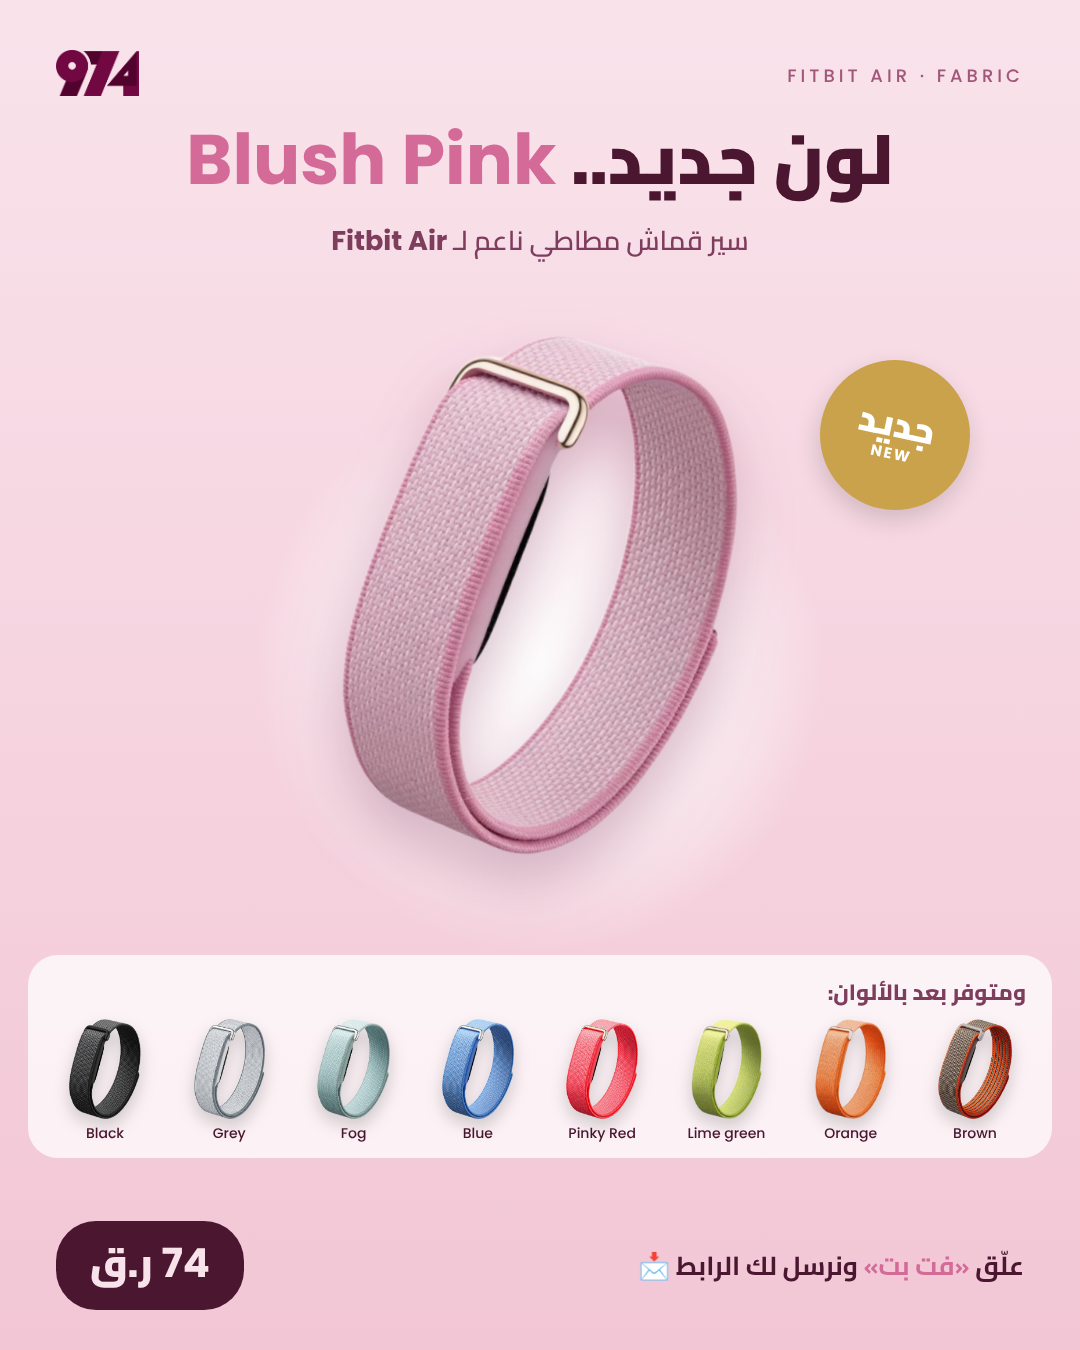
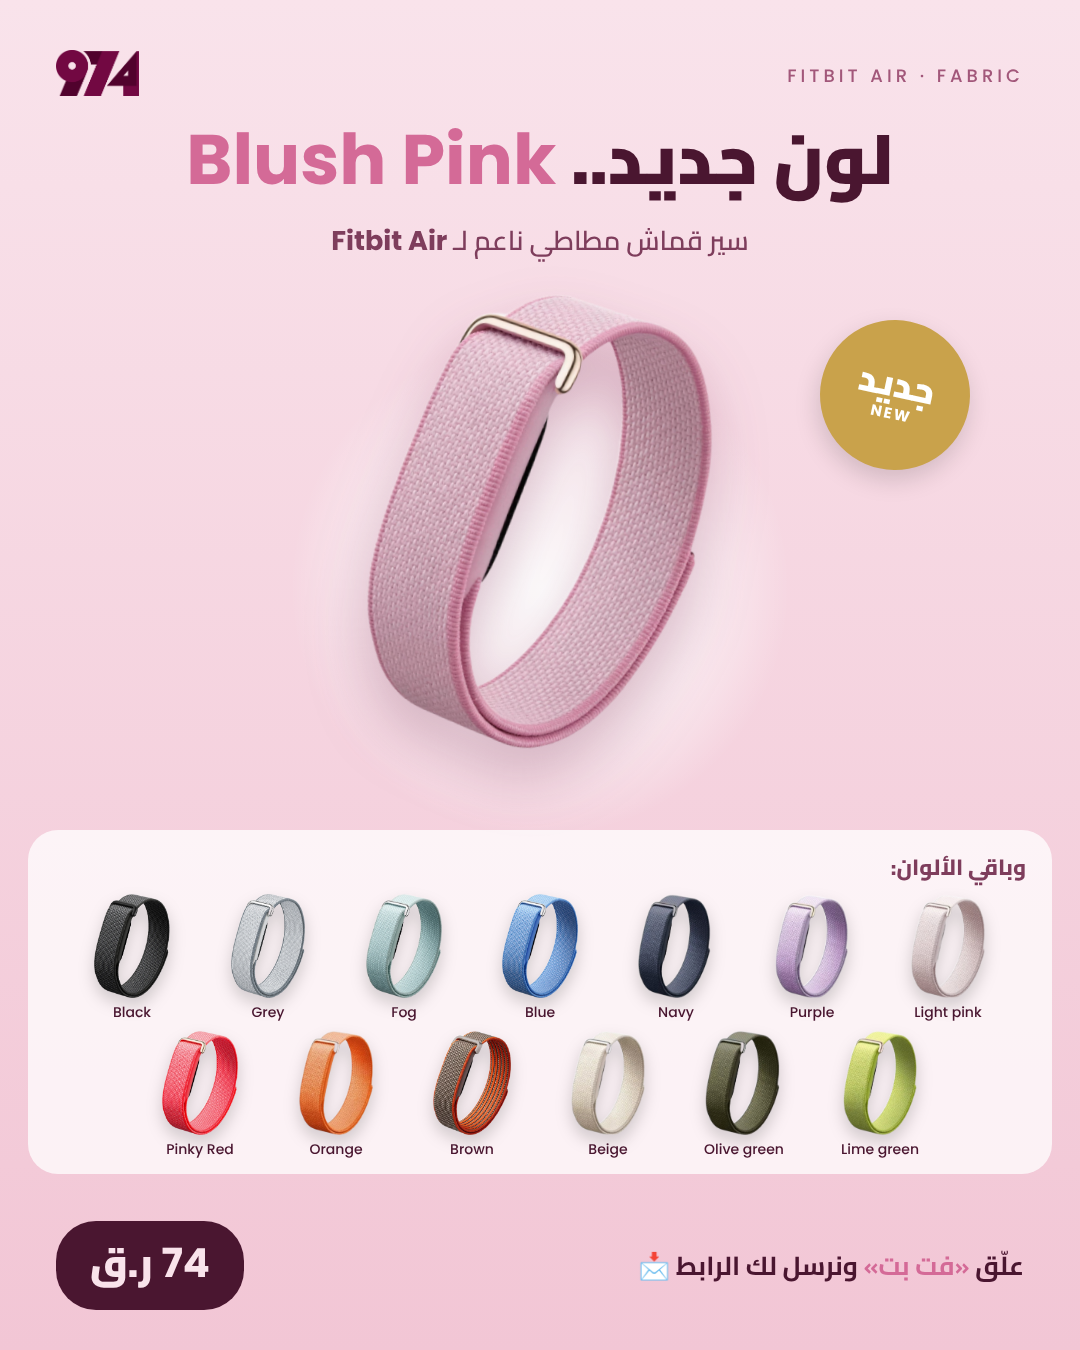
Fitbit fabric blush design: all 14 colours
Claude-Session: https://claude.ai/code/session_01K6HDWNrArsGSJekW1VcEzV

Changed region(s): [[0.0, 0.2178, 0.9778, 0.8711], [0.7333, 0.2178, 0.9167, 0.4044]]

diff --git a/posts/2026-11/fitbit-fabric-blush/974-fitbit-fabric-blush-post.html b/posts/2026-11/fitbit-fabric-blush/974-fitbit-fabric-blush-post.html
@@ -11,15 +11,15 @@ h1{position:absolute;top:120px;left:0;right:0;text-align:center;direction:rtl;fo
 h1 b{font-family:Poppins;font-weight:700;color:#D46A97}
 .sub{position:absolute;top:215px;left:0;right:0;text-align:center;direction:rtl;font-weight:600;font-size:27px;color:#7E3D5C}
 .sub b{font-family:Poppins;font-weight:700}
-.disc{position:absolute;left:50%;top:381.2px;width:576.0px;height:576.0px;transform:translateX(-50%);border-radius:50%;background:radial-gradient(circle,#FFFFFF 0%,rgba(255,255,255,.55) 45%,rgba(255,255,255,0) 70%)}
-.hero{position:absolute;left:50%;top:330px;height:524.8px;transform:translateX(-50%) rotate(6deg);filter:drop-shadow(0 30px 28px rgba(110,30,70,.28))}
-.new{position:absolute;top:360px;right:110px;width:150px;height:150px;border-radius:50%;background:#C9A24B;color:#fff;display:flex;flex-direction:column;align-items:center;justify-content:center;transform:rotate(12deg);box-shadow:0 10px 24px rgba(0,0,0,.15)}
+.disc{position:absolute;left:50%;top:334.8px;width:504.0px;height:504.0px;transform:translateX(-50%);border-radius:50%;background:radial-gradient(circle,#FFFFFF 0%,rgba(255,255,255,.55) 45%,rgba(255,255,255,0) 70%)}
+.hero{position:absolute;left:50%;top:290px;height:459.2px;transform:translateX(-50%) rotate(6deg);filter:drop-shadow(0 30px 28px rgba(110,30,70,.28))}
+.new{position:absolute;top:320px;right:110px;width:150px;height:150px;border-radius:50%;background:#C9A24B;color:#fff;display:flex;flex-direction:column;align-items:center;justify-content:center;transform:rotate(12deg);box-shadow:0 10px 24px rgba(0,0,0,.15)}
 .new b{font-weight:900;font-size:36px;line-height:1} .new s{text-decoration:none;font-family:Poppins;font-weight:700;font-size:15px;letter-spacing:2px}
-.strip{position:absolute;left:28px;right:28px;top:955px;background:rgba(255,255,255,.75);border-radius:30px;padding:16px 18px 14px}
+.strip{position:absolute;left:28px;right:28px;top:830px;background:rgba(255,255,255,.75);border-radius:30px;padding:16px 18px 14px}
 .strip h3{direction:rtl;text-align:right;font-weight:800;font-size:22px;margin:0 8px 6px;color:#7E3D5C}
-.row{display:flex;justify-content:space-between}
-.o{display:flex;flex-direction:column;align-items:center;width:118px}
-.o img{height:100px;max-width:110px;object-fit:contain;filter:drop-shadow(0 8px 8px rgba(0,0,0,.18))}
+.row{display:flex;flex-wrap:wrap;justify-content:center;row-gap:8px;column-gap:14px}
+.o{display:flex;flex-direction:column;align-items:center;width:122px}
+.o img{height:104px;max-width:114px;object-fit:contain;filter:drop-shadow(0 8px 8px rgba(0,0,0,.18))}
 .o span{font-family:Poppins;font-weight:500;font-size:14px;margin-top:4px;white-space:nowrap}
 .foot{position:absolute;left:56px;right:56px;bottom:40px;display:flex;justify-content:space-between;align-items:center;direction:rtl}
 .price{background:#4A1630;color:#F9E3EB;border-radius:40px;padding:4px 34px 10px;font-weight:900;font-size:40px}
@@ -33,6 +33,6 @@ h1 b{font-family:Poppins;font-weight:700;color:#D46A97}
 <div class="disc"></div>
 <img class="hero" src="file:///home/claude/974-social/products/fitbit-fabric-blush/src/blush-crop.png">
 <div class="new"><b>جديد</b><s>NEW</s></div>
-<div class="strip"><h3>ومتوفر بعد بالألوان:</h3><div class="row"><div class="o"><img src="file:///home/claude/974-social/products/fitbit-fabric-blush/src/black-crop.png"><span>Black</span></div><div class="o"><img src="file:///home/claude/974-social/products/fitbit-fabric-blush/src/grey-crop.png"><span>Grey</span></div><div class="o"><img src="file:///home/claude/974-social/products/fitbit-fabric-blush/src/fog-crop.png"><span>Fog</span></div><div class="o"><img src="file:///home/claude/974-social/products/fitbit-fabric-blush/src/blue-crop.png"><span>Blue</span></div><div class="o"><img src="file:///home/claude/974-social/products/fitbit-fabric-blush/src/pinky-red-crop.png"><span>Pinky Red</span></div><div class="o"><img src="file:///home/claude/974-social/products/fitbit-fabric-blush/src/lime-crop.png"><span>Lime green</span></div><div class="o"><img src="file:///home/claude/974-social/products/fitbit-fabric-blush/src/orange-crop.png"><span>Orange</span></div><div class="o"><img src="file:///home/claude/974-social/products/fitbit-fabric-blush/src/brown-crop.png"><span>Brown</span></div></div></div>
+<div class="strip"><h3>وباقي الألوان:</h3><div class="row"><div class="o"><img src="file:///home/claude/974-social/products/fitbit-fabric-blush/src/black-crop.png"><span>Black</span></div><div class="o"><img src="file:///home/claude/974-social/products/fitbit-fabric-blush/src/grey-crop.png"><span>Grey</span></div><div class="o"><img src="file:///home/claude/974-social/products/fitbit-fabric-blush/src/fog-crop.png"><span>Fog</span></div><div class="o"><img src="file:///home/claude/974-social/products/fitbit-fabric-blush/src/blue-crop.png"><span>Blue</span></div><div class="o"><img src="file:///home/claude/974-social/products/fitbit-fabric-blush/src/navy-crop.png"><span>Navy</span></div><div class="o"><img src="file:///home/claude/974-social/products/fitbit-fabric-blush/src/purple-crop.png"><span>Purple</span></div><div class="o"><img src="file:///home/claude/974-social/products/fitbit-fabric-blush/src/light-pink-crop.png"><span>Light pink</span></div><div class="o"><img src="file:///home/claude/974-social/products/fitbit-fabric-blush/src/pinky-red-crop.png"><span>Pinky Red</span></div><div class="o"><img src="file:///home/claude/974-social/products/fitbit-fabric-blush/src/orange-crop.png"><span>Orange</span></div><div class="o"><img src="file:///home/claude/974-social/products/fitbit-fabric-blush/src/brown-crop.png"><span>Brown</span></div><div class="o"><img src="file:///home/claude/974-social/products/fitbit-fabric-blush/src/beige-crop.png"><span>Beige</span></div><div class="o"><img src="file:///home/claude/974-social/products/fitbit-fabric-blush/src/olive-crop.png"><span>Olive green</span></div><div class="o"><img src="file:///home/claude/974-social/products/fitbit-fabric-blush/src/lime-crop.png"><span>Lime green</span></div></div></div>
 <div class="foot"><div class="cta">علّق <em>«فت بت»</em> ونرسل لك الرابط 📩</div><div class="price"><b>74</b> ر.ق</div></div>
 </body></html>

diff --git a/posts/2026-11/fitbit-fabric-blush/974-fitbit-fabric-blush-story.html b/posts/2026-11/fitbit-fabric-blush/974-fitbit-fabric-blush-story.html
@@ -11,13 +11,13 @@ h1{position:absolute;top:230px;left:0;right:0;text-align:center;direction:rtl;fo
 h1 b{font-family:Poppins;font-weight:700;color:#D46A97}
 .sub{position:absolute;top:340px;left:0;right:0;text-align:center;direction:rtl;font-weight:600;font-size:31px;color:#7E3D5C}
 .sub b{font-family:Poppins;font-weight:700}
-.disc{position:absolute;left:50%;top:585.6px;width:738.0px;height:738.0px;transform:translateX(-50%);border-radius:50%;background:radial-gradient(circle,#FFFFFF 0%,rgba(255,255,255,.55) 45%,rgba(255,255,255,0) 70%)}
-.hero{position:absolute;left:50%;top:520px;height:672.4px;transform:translateX(-50%) rotate(6deg);filter:drop-shadow(0 30px 28px rgba(110,30,70,.28))}
-.new{position:absolute;top:550px;right:90px;width:150px;height:150px;border-radius:50%;background:#C9A24B;color:#fff;display:flex;flex-direction:column;align-items:center;justify-content:center;transform:rotate(12deg);box-shadow:0 10px 24px rgba(0,0,0,.15)}
+.disc{position:absolute;left:50%;top:529.2px;width:666.0px;height:666.0px;transform:translateX(-50%);border-radius:50%;background:radial-gradient(circle,#FFFFFF 0%,rgba(255,255,255,.55) 45%,rgba(255,255,255,0) 70%)}
+.hero{position:absolute;left:50%;top:470px;height:606.8px;transform:translateX(-50%) rotate(6deg);filter:drop-shadow(0 30px 28px rgba(110,30,70,.28))}
+.new{position:absolute;top:500px;right:90px;width:150px;height:150px;border-radius:50%;background:#C9A24B;color:#fff;display:flex;flex-direction:column;align-items:center;justify-content:center;transform:rotate(12deg);box-shadow:0 10px 24px rgba(0,0,0,.15)}
 .new b{font-weight:900;font-size:36px;line-height:1} .new s{text-decoration:none;font-family:Poppins;font-weight:700;font-size:15px;letter-spacing:2px}
-.strip{position:absolute;left:28px;right:28px;top:1320px;background:rgba(255,255,255,.75);border-radius:30px;padding:16px 18px 14px}
+.strip{position:absolute;left:28px;right:28px;top:1130px;background:rgba(255,255,255,.75);border-radius:30px;padding:16px 18px 14px}
 .strip h3{direction:rtl;text-align:right;font-weight:800;font-size:26px;margin:0 8px 6px;color:#7E3D5C}
-.row{display:flex;justify-content:space-between}
+.row{display:flex;flex-wrap:wrap;justify-content:center;row-gap:18px;column-gap:8px}
 .o{display:flex;flex-direction:column;align-items:center;width:126px}
 .o img{height:108px;max-width:118px;object-fit:contain;filter:drop-shadow(0 8px 8px rgba(0,0,0,.18))}
 .o span{font-family:Poppins;font-weight:500;font-size:16px;margin-top:4px;white-space:nowrap}
@@ -33,6 +33,6 @@ h1 b{font-family:Poppins;font-weight:700;color:#D46A97}
 <div class="disc"></div>
 <img class="hero" src="file:///home/claude/974-social/products/fitbit-fabric-blush/src/blush-crop.png">
 <div class="new"><b>جديد</b><s>NEW</s></div>
-<div class="strip"><h3>ومتوفر بعد بالألوان:</h3><div class="row"><div class="o"><img src="file:///home/claude/974-social/products/fitbit-fabric-blush/src/black-crop.png"><span>Black</span></div><div class="o"><img src="file:///home/claude/974-social/products/fitbit-fabric-blush/src/grey-crop.png"><span>Grey</span></div><div class="o"><img src="file:///home/claude/974-social/products/fitbit-fabric-blush/src/fog-crop.png"><span>Fog</span></div><div class="o"><img src="file:///home/claude/974-social/products/fitbit-fabric-blush/src/blue-crop.png"><span>Blue</span></div><div class="o"><img src="file:///home/claude/974-social/products/fitbit-fabric-blush/src/pinky-red-crop.png"><span>Pinky Red</span></div><div class="o"><img src="file:///home/claude/974-social/products/fitbit-fabric-blush/src/lime-crop.png"><span>Lime green</span></div><div class="o"><img src="file:///home/claude/974-social/products/fitbit-fabric-blush/src/orange-crop.png"><span>Orange</span></div><div class="o"><img src="file:///home/claude/974-social/products/fitbit-fabric-blush/src/brown-crop.png"><span>Brown</span></div></div></div>
+<div class="strip"><h3>وباقي الألوان:</h3><div class="row"><div class="o"><img src="file:///home/claude/974-social/products/fitbit-fabric-blush/src/black-crop.png"><span>Black</span></div><div class="o"><img src="file:///home/claude/974-social/products/fitbit-fabric-blush/src/grey-crop.png"><span>Grey</span></div><div class="o"><img src="file:///home/claude/974-social/products/fitbit-fabric-blush/src/fog-crop.png"><span>Fog</span></div><div class="o"><img src="file:///home/claude/974-social/products/fitbit-fabric-blush/src/blue-crop.png"><span>Blue</span></div><div class="o"><img src="file:///home/claude/974-social/products/fitbit-fabric-blush/src/navy-crop.png"><span>Navy</span></div><div class="o"><img src="file:///home/claude/974-social/products/fitbit-fabric-blush/src/purple-crop.png"><span>Purple</span></div><div class="o"><img src="file:///home/claude/974-social/products/fitbit-fabric-blush/src/light-pink-crop.png"><span>Light pink</span></div><div class="o"><img src="file:///home/claude/974-social/products/fitbit-fabric-blush/src/pinky-red-crop.png"><span>Pinky Red</span></div><div class="o"><img src="file:///home/claude/974-social/products/fitbit-fabric-blush/src/orange-crop.png"><span>Orange</span></div><div class="o"><img src="file:///home/claude/974-social/products/fitbit-fabric-blush/src/brown-crop.png"><span>Brown</span></div><div class="o"><img src="file:///home/claude/974-social/products/fitbit-fabric-blush/src/beige-crop.png"><span>Beige</span></div><div class="o"><img src="file:///home/claude/974-social/products/fitbit-fabric-blush/src/olive-crop.png"><span>Olive green</span></div><div class="o"><img src="file:///home/claude/974-social/products/fitbit-fabric-blush/src/lime-crop.png"><span>Lime green</span></div></div></div>
 <div class="foot"><div class="cta">علّق <em>«فت بت»</em> ونرسل لك الرابط 📩</div><div class="price"><b>74</b> ر.ق</div></div>
 </body></html>

diff --git a/posts/2026-11/fitbit-fabric-blush/gen.py b/posts/2026-11/fitbit-fabric-blush/gen.py
@@ -2,12 +2,12 @@ import subprocess
 SP='/tmp/claude-0/-home-claude/bcc2c2d5-4d57-5df4-9795-f402b1a1cd9a/scratchpad'
 P='/home/claude/974-social/products/fitbit-fabric-blush/src/'
 LOGO='/home/claude/974-social/posts/2026-11/waterproof/src/mark-c.png'
-others=[('Black','black'),('Grey','grey'),('Fog','fog'),('Blue','blue'),('Pinky Red','pinky-red'),('Lime green','lime'),('Orange','orange'),('Brown','brown')]
+others=[('Black','black'),('Grey','grey'),('Fog','fog'),('Blue','blue'),('Navy','navy'),('Purple','purple'),('Light pink','light-pink'),('Pinky Red','pinky-red'),('Orange','orange'),('Brown','brown'),('Beige','beige'),('Olive green','olive'),('Lime green','lime')]
 def page(W,H,story):
-    hero=640 if not story else 820
-    heroTop=330 if not story else 520
-    strip_top=H-(395 if not story else 600)
-    sz=100 if not story else 108
+    hero=560 if not story else 740
+    heroTop=290 if not story else 470
+    strip_top=H-(520 if not story else 790)
+    sz=104 if not story else 108
     cards=''.join(f'<div class="o"><img src="file://{P}{f}-crop.png"><span>{n}</span></div>' for n,f in others)
     return f'''<!doctype html><html><head><meta charset="utf-8"><style>
 @font-face{{font-family:'Cairo';font-weight:400 900;src:url(file://{SP}/aw/fonts/cairo-SLXVc1nY6HkvangtZmpQdkhzfH5lkSscQyyS8p4_RHH1.woff2)}}
@@ -28,7 +28,7 @@ h1 b{{font-family:Poppins;font-weight:700;color:#D46A97}}
 .new b{{font-weight:900;font-size:36px;line-height:1}} .new s{{text-decoration:none;font-family:Poppins;font-weight:700;font-size:15px;letter-spacing:2px}}
 .strip{{position:absolute;left:28px;right:28px;top:{strip_top}px;background:rgba(255,255,255,.75);border-radius:30px;padding:16px 18px 14px}}
 .strip h3{{direction:rtl;text-align:right;font-weight:800;font-size:{22 if not story else 26}px;margin:0 8px 6px;color:#7E3D5C}}
-.row{{display:flex;justify-content:space-between}}
+.row{{display:flex;flex-wrap:wrap;justify-content:center;row-gap:{8 if not story else 18}px;column-gap:{14 if not story else 8}px}}
 .o{{display:flex;flex-direction:column;align-items:center;width:{sz+18}px}}
 .o img{{height:{sz}px;max-width:{sz+10}px;object-fit:contain;filter:drop-shadow(0 8px 8px rgba(0,0,0,.18))}}
 .o span{{font-family:Poppins;font-weight:500;font-size:{14 if not story else 16}px;margin-top:4px;white-space:nowrap}}
@@ -44,7 +44,7 @@ h1 b{{font-family:Poppins;font-weight:700;color:#D46A97}}
 <div class="disc"></div>
 <img class="hero" src="file://{P}blush-crop.png">
 <div class="new"><b>جديد</b><s>NEW</s></div>
-<div class="strip"><h3>ومتوفر بعد بالألوان:</h3><div class="row">{cards}</div></div>
+<div class="strip"><h3>وباقي الألوان:</h3><div class="row">{cards}</div></div>
 <div class="foot"><div class="cta">علّق <em>«فت بت»</em> ونرسل لك الرابط 📩</div><div class="price"><b>74</b> ر.ق</div></div>
 </body></html>'''
 for name,W,H,st in (('974-fitbit-fabric-blush-post',1080,1350,False),('974-fitbit-fabric-blush-story',1080,1920,True)):
